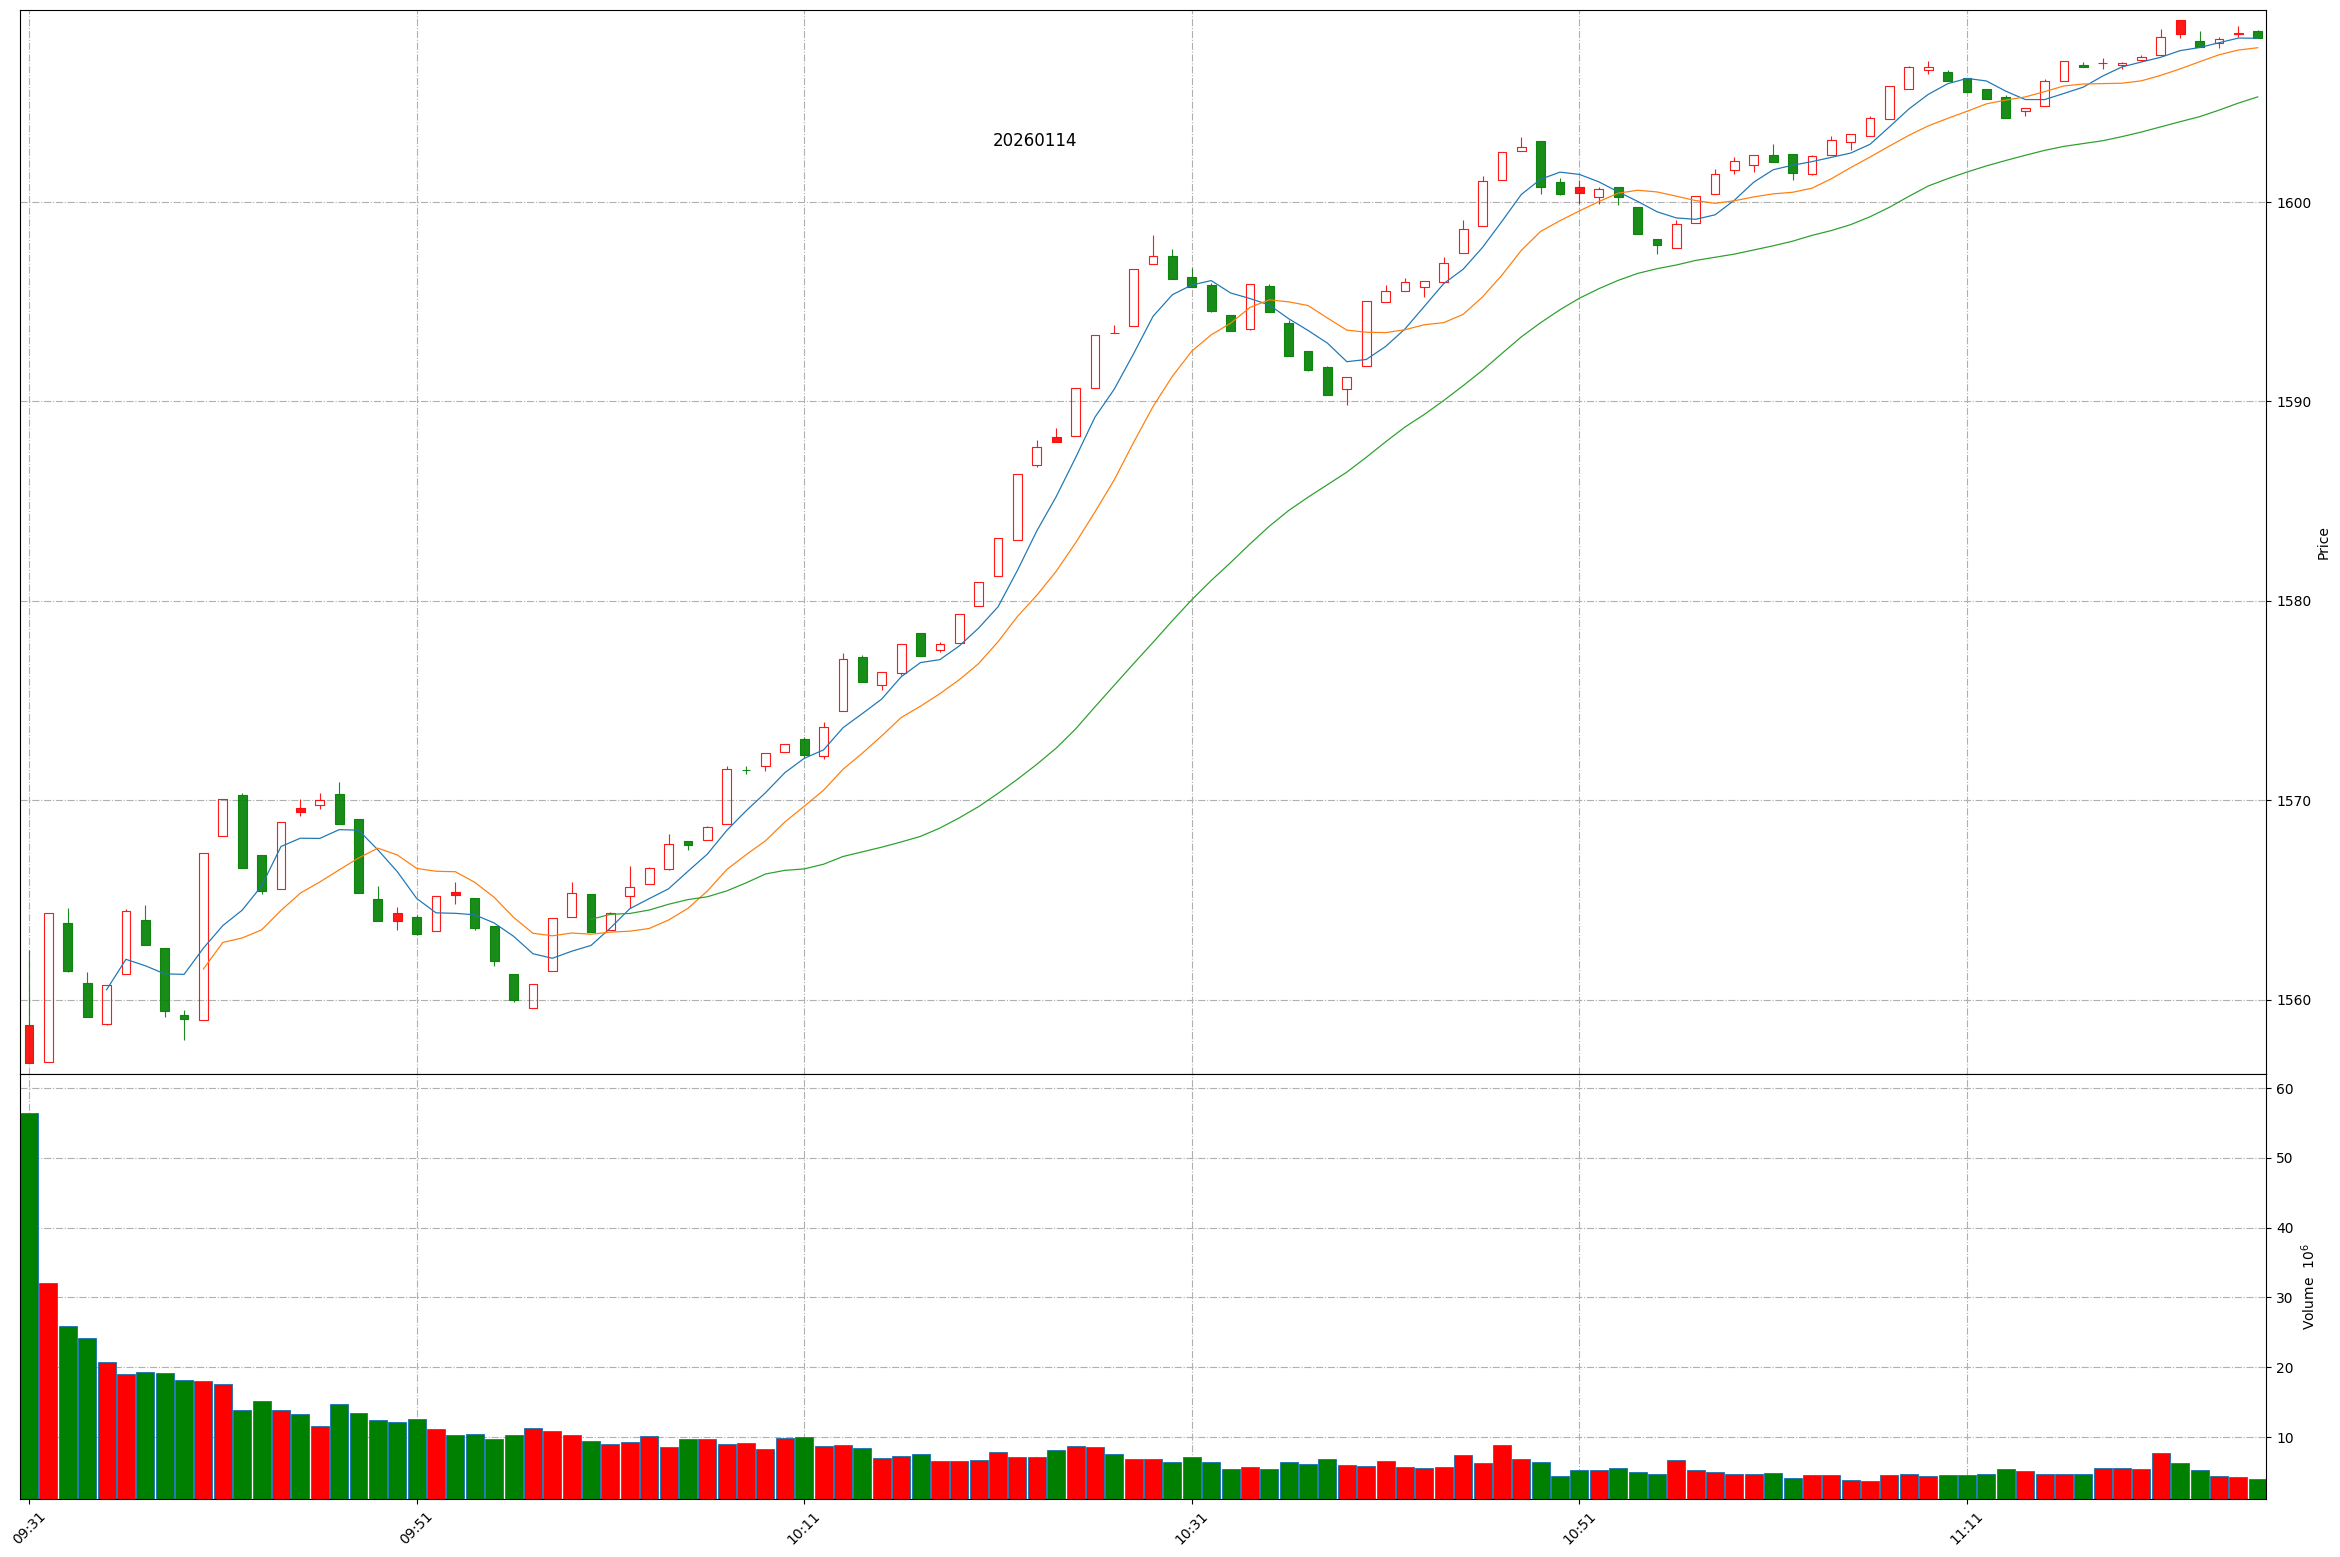
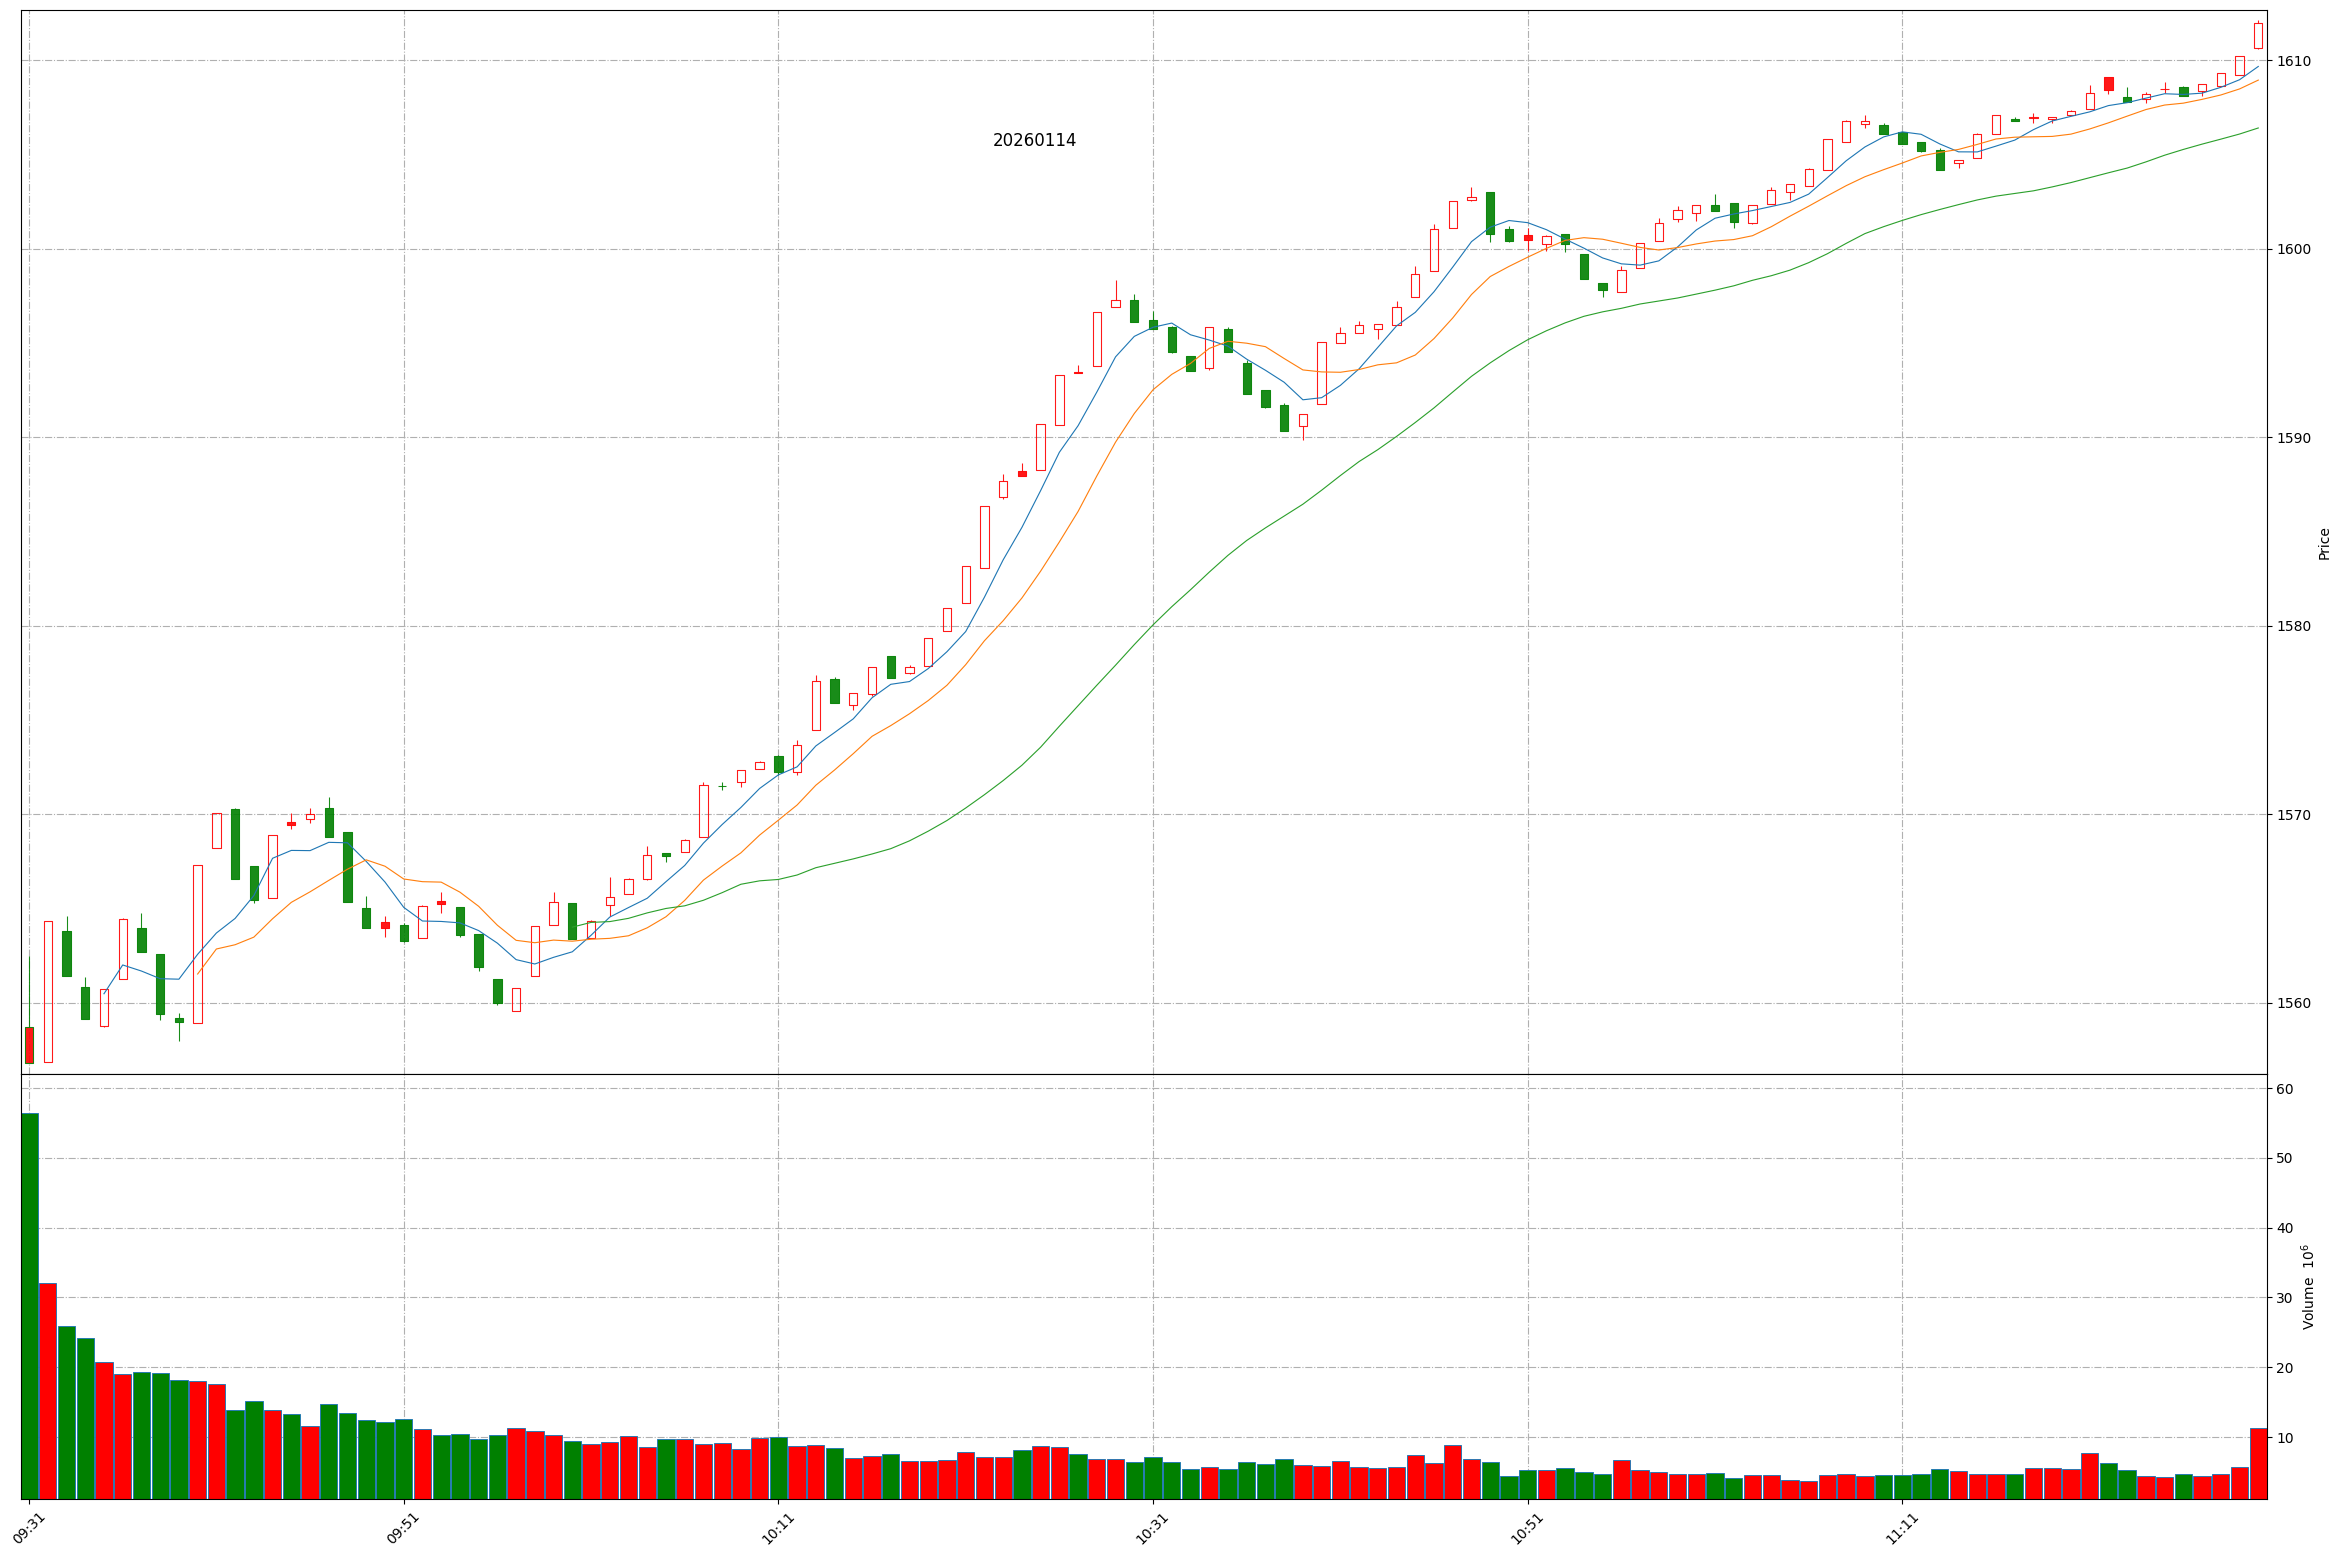
Github action update at 2026-01-14 11:41:10.

diff --git a/README.md b/README.md
@@ -1,11 +1,11 @@
 
 # Daily-A-share-market-quotes 每日 A 股指数（5min 更新）- 20260114
 
-### 上证指数 20260114 11:25
+### 上证指数 20260114 11:41
 ![](./fig/2026/1/20260114-sh000001.png)
 
-### 深证成指 20260114 11:25
+### 深证成指 20260114 11:41
 ![](./fig/2026/1/20260114-sz399001.png)
 
-### 北证50 20260114 11:25
+### 北证50 20260114 11:41
 ![](./fig/2026/1/20260114-bj899050.png)
